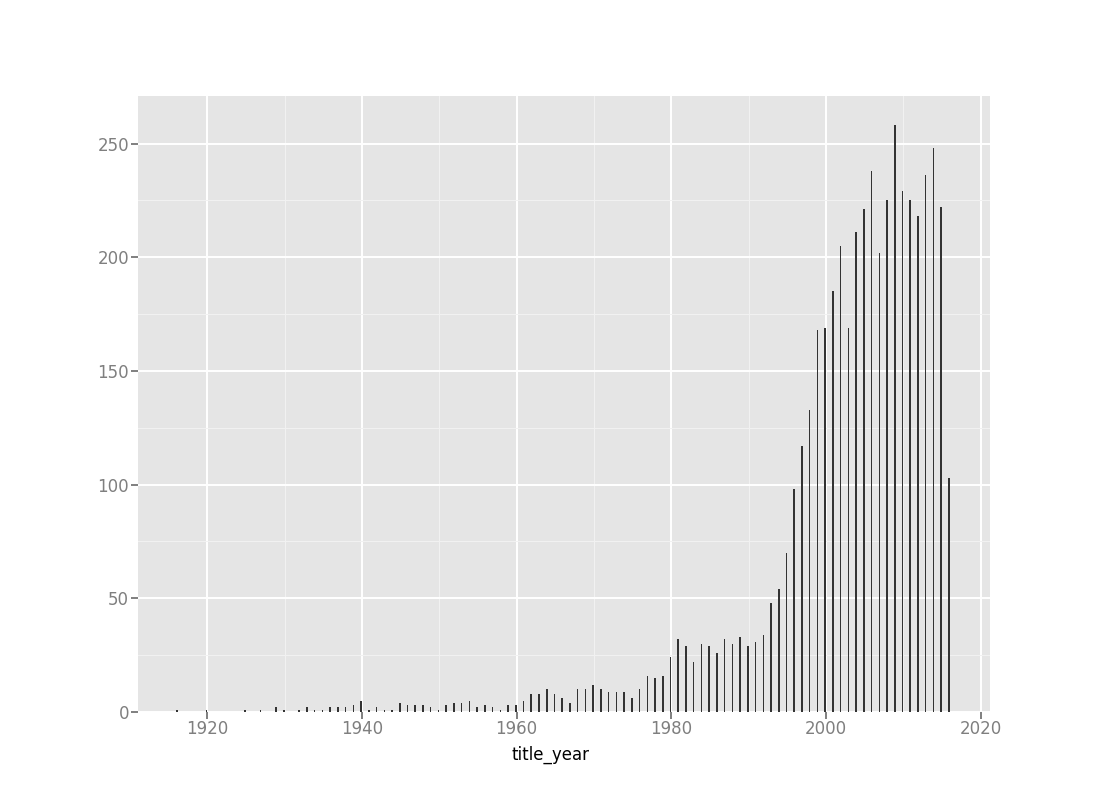
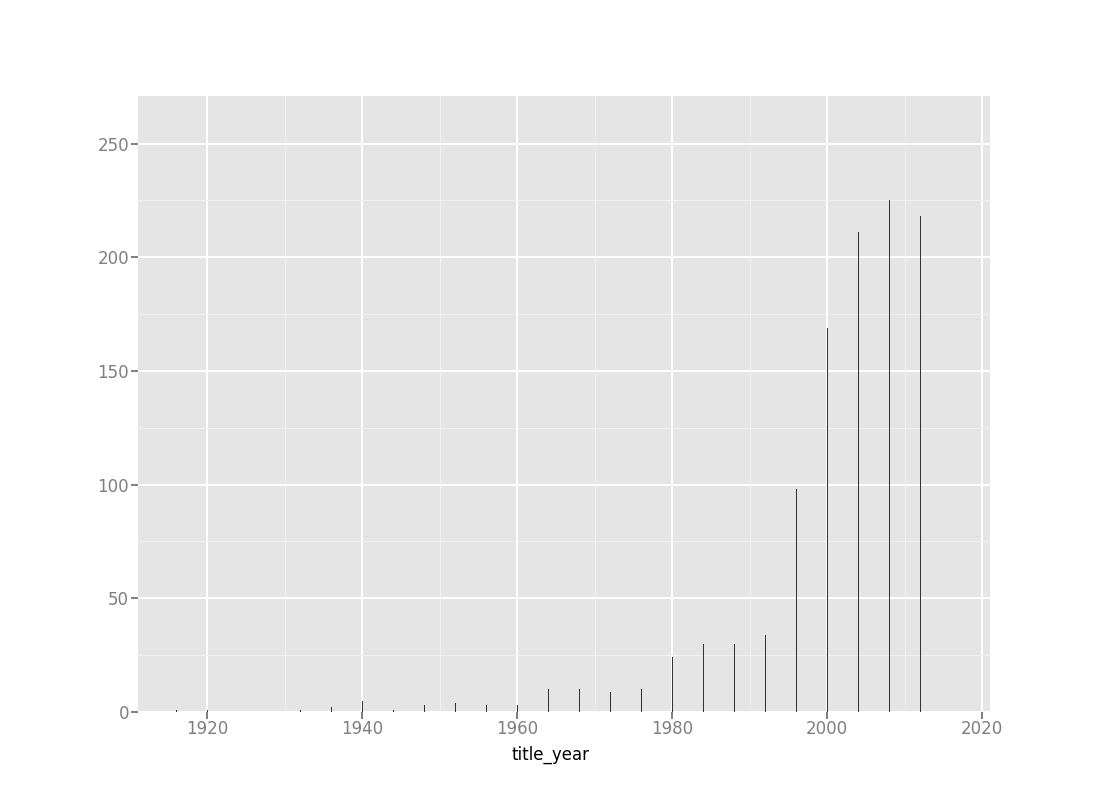
made graph look nice

Changed region(s): [[0.5873, 0.25, 0.8655, 0.9375], [0.4636, 0.8438, 0.5564, 0.9375], [0.8655, 0.9062, 0.8964, 0.9375]]

diff --git a/final.py b/final.py
@@ -27,7 +27,7 @@ print str(len(df)) + " rows \t" + str(len(df.columns)) + " columns\n"
 ##########################Cleaning #########################
 
 #print extensive view of missing values 
-print df.isnull().sum().to_string() + "\n"
+#print df.isnull().sum().to_string() + "\n"
 
 #clean whitespace of movie titles 
 df['movie_title'] = df['movie_title'].str.strip()
@@ -38,12 +38,12 @@ df['duration'] = df['duration'].fillna(df['duration'].mean().round())
 #fill mising countries with a space
 df['country'] = df['country'].fillna('') 
 
-
+##########################Visualisation#####################
 
 #Plots
-print df['title_year'].to_string()
 
 yearHist = ggplot(df, aes(x="title_year")) +\
-geom_histogram(binwidth=.2)
+geom_histogram(binwidth=.05)
+
 print yearHist
 yearHist.save('yearHist.png')
